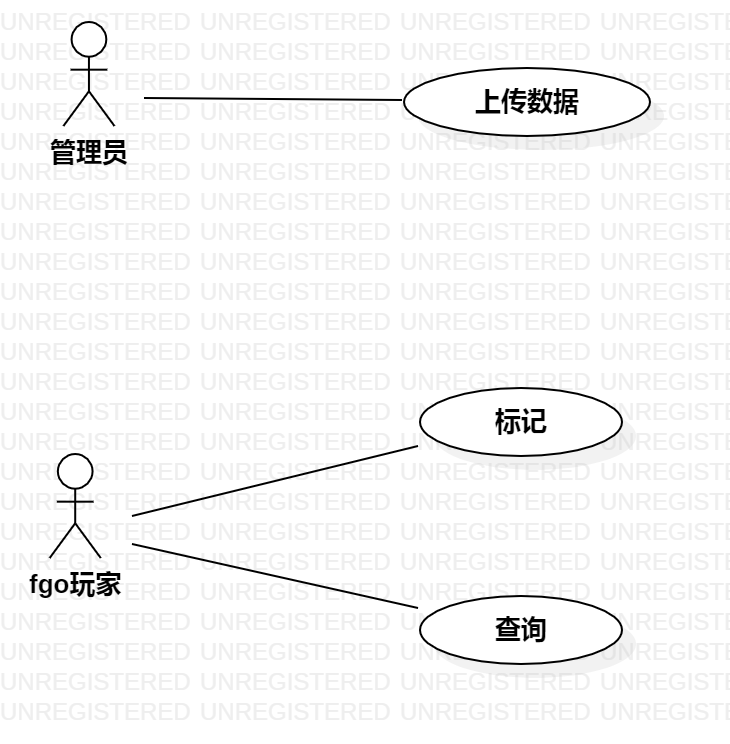
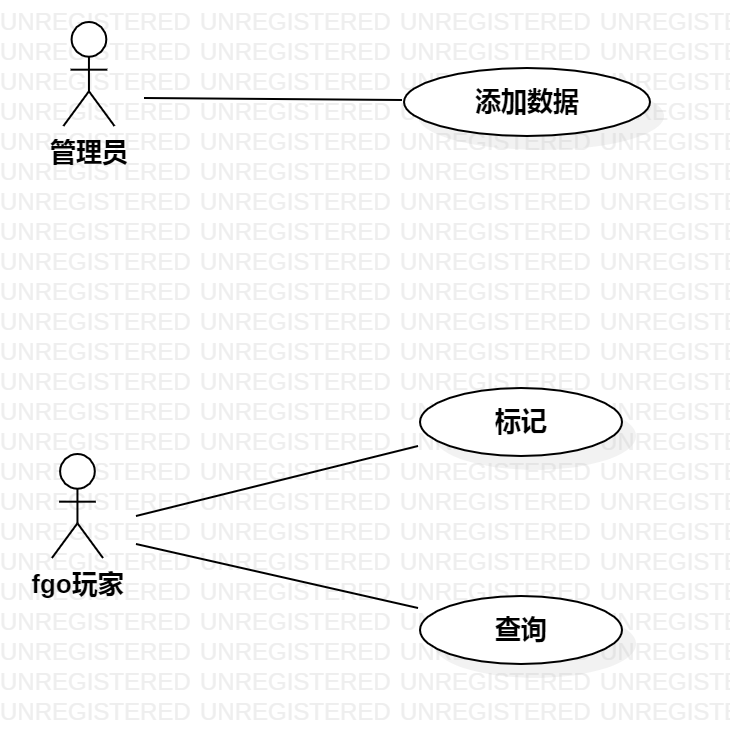
修改实验45

diff --git a/students/1714080902211/lab2.md b/students/1714080902211/lab2.md
@@ -23,7 +23,7 @@
 2.确认参与者：A.管理员     B.fgo玩家
 
 3.确认系统功能：
-A.上传数据：管理员上传角色数据 
+A.上传数据：管理员添加角色数据 
 B.标注角色：fgo玩家标注已有角色
 C.查询角色：fgo玩家查询已有角色
 D.浏览角色：fgo玩家浏览全部角色
@@ -38,19 +38,19 @@ D.浏览角色：fgo玩家浏览全部角色
 
 图一：fgo英灵管理系统的用例图
 
-## 表1：上传角色数据用例规约  
+## 表1：添加角色数据用例规约  
 
 用例编号  | FGO201 | 备注  
 -|:-|-  
-用例名称  | 上传角色数据  |   
+用例名称  | 添加角色数据  |   
 前置条件  | 管理员登录系统    | *可选*   
 后置条件  | 系统导入数据     | *可选*   
-基本流程  | 1.管理员点击“上传数据”按钮  |*用例执行成功的步骤*    
+基本流程  | 1.管理员点击“添加数据”按钮  |*用例执行成功的步骤*    
 ~| 2.系统显示上传页面  |   
 ~| 3.管理员输入数据   |   
-~| 4.管理员点击“确认上传”按钮   |   
+~| 4.管理员点击“确认添加”按钮   |   
 ~| 5.系统查询输入是否规范，如果规范，系统导入数据   |   
-~| 6.系统提示上传成功   |  
+~| 6.系统提示添加成功   |  
 扩展流程  | 5.1 系统发现输入不符合规范，系统提示输入错误   |*用例执行失败*    
 
 ## 表2：标注角色用例规约  

diff --git a/students/1714080902211/lab4.md b/students/1714080902211/lab4.md
@@ -48,7 +48,7 @@
 
 ![upload](./upload2.jpg)
 
-图一：上传角色数据的类图
+图一：添加角色数据的类图
 
 ![mark](./mark2.jpg)
 

diff --git a/students/1714080902211/lab3.md b/students/1714080902211/lab3.md
@@ -28,7 +28,7 @@
 
 ![upload](./upload.jpg)
 
-图一：上传数据的活动图
+图一：添加数据的活动图
 
 ![mark](./mark.jpg)
 
